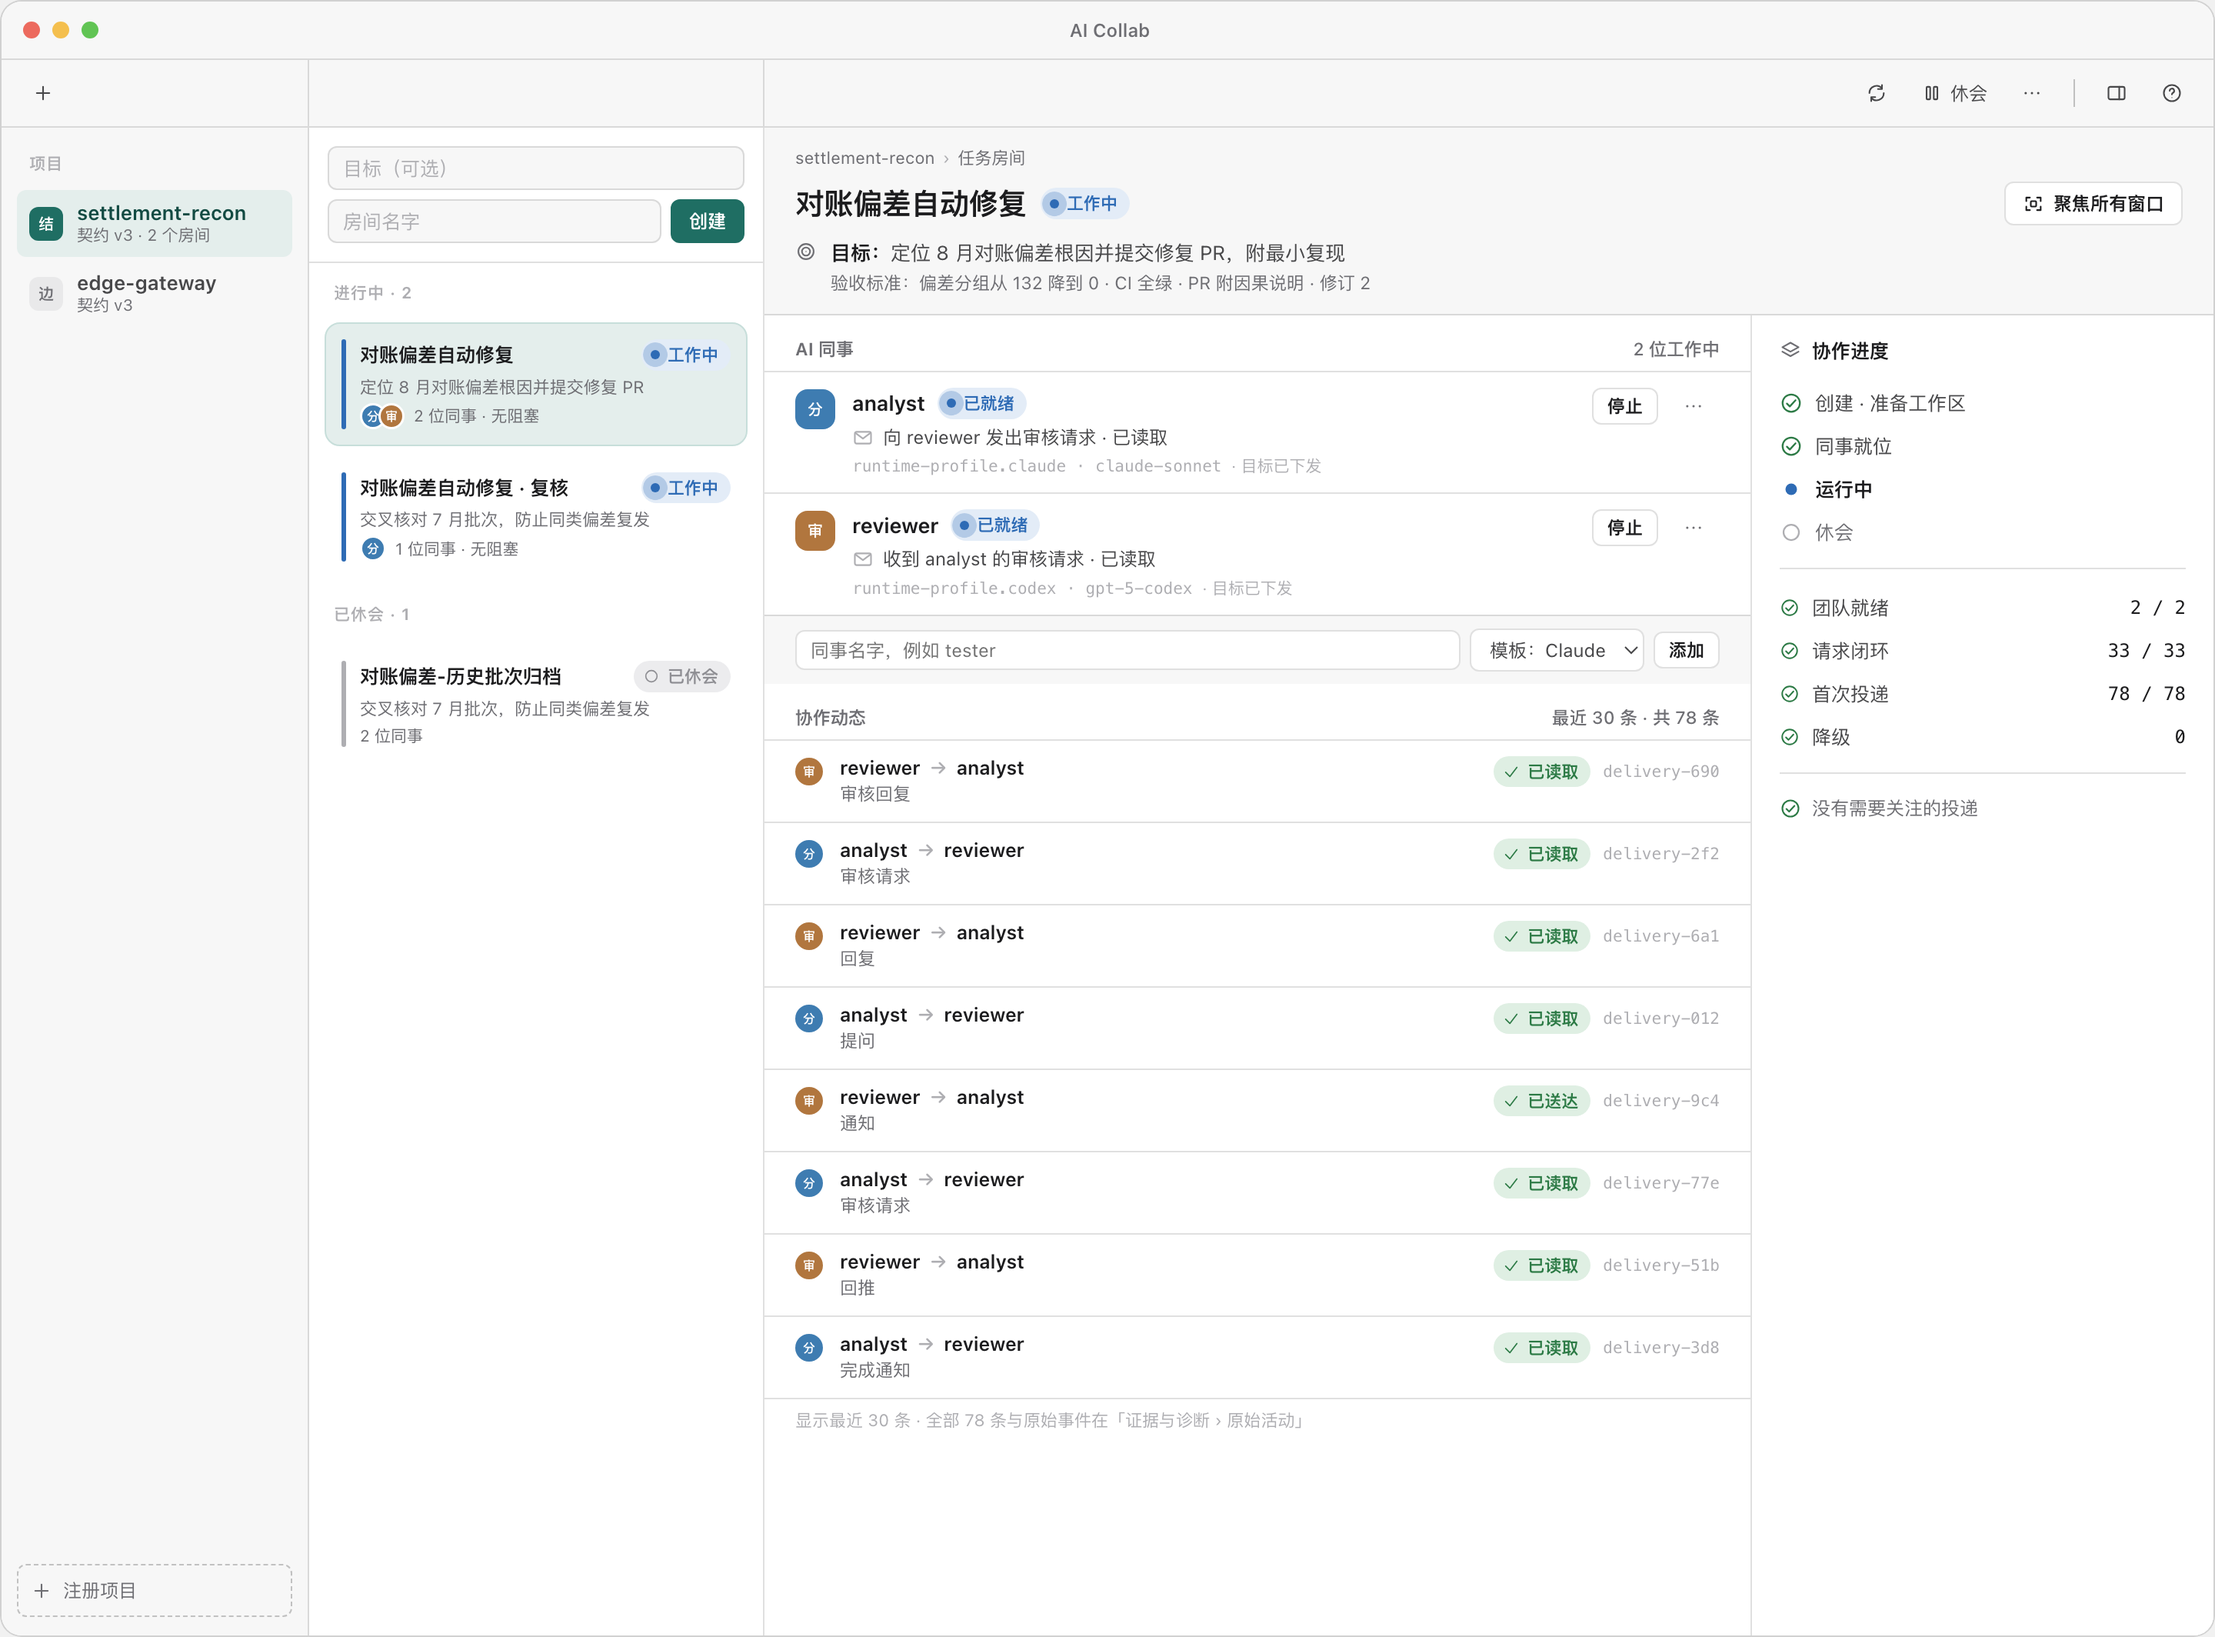
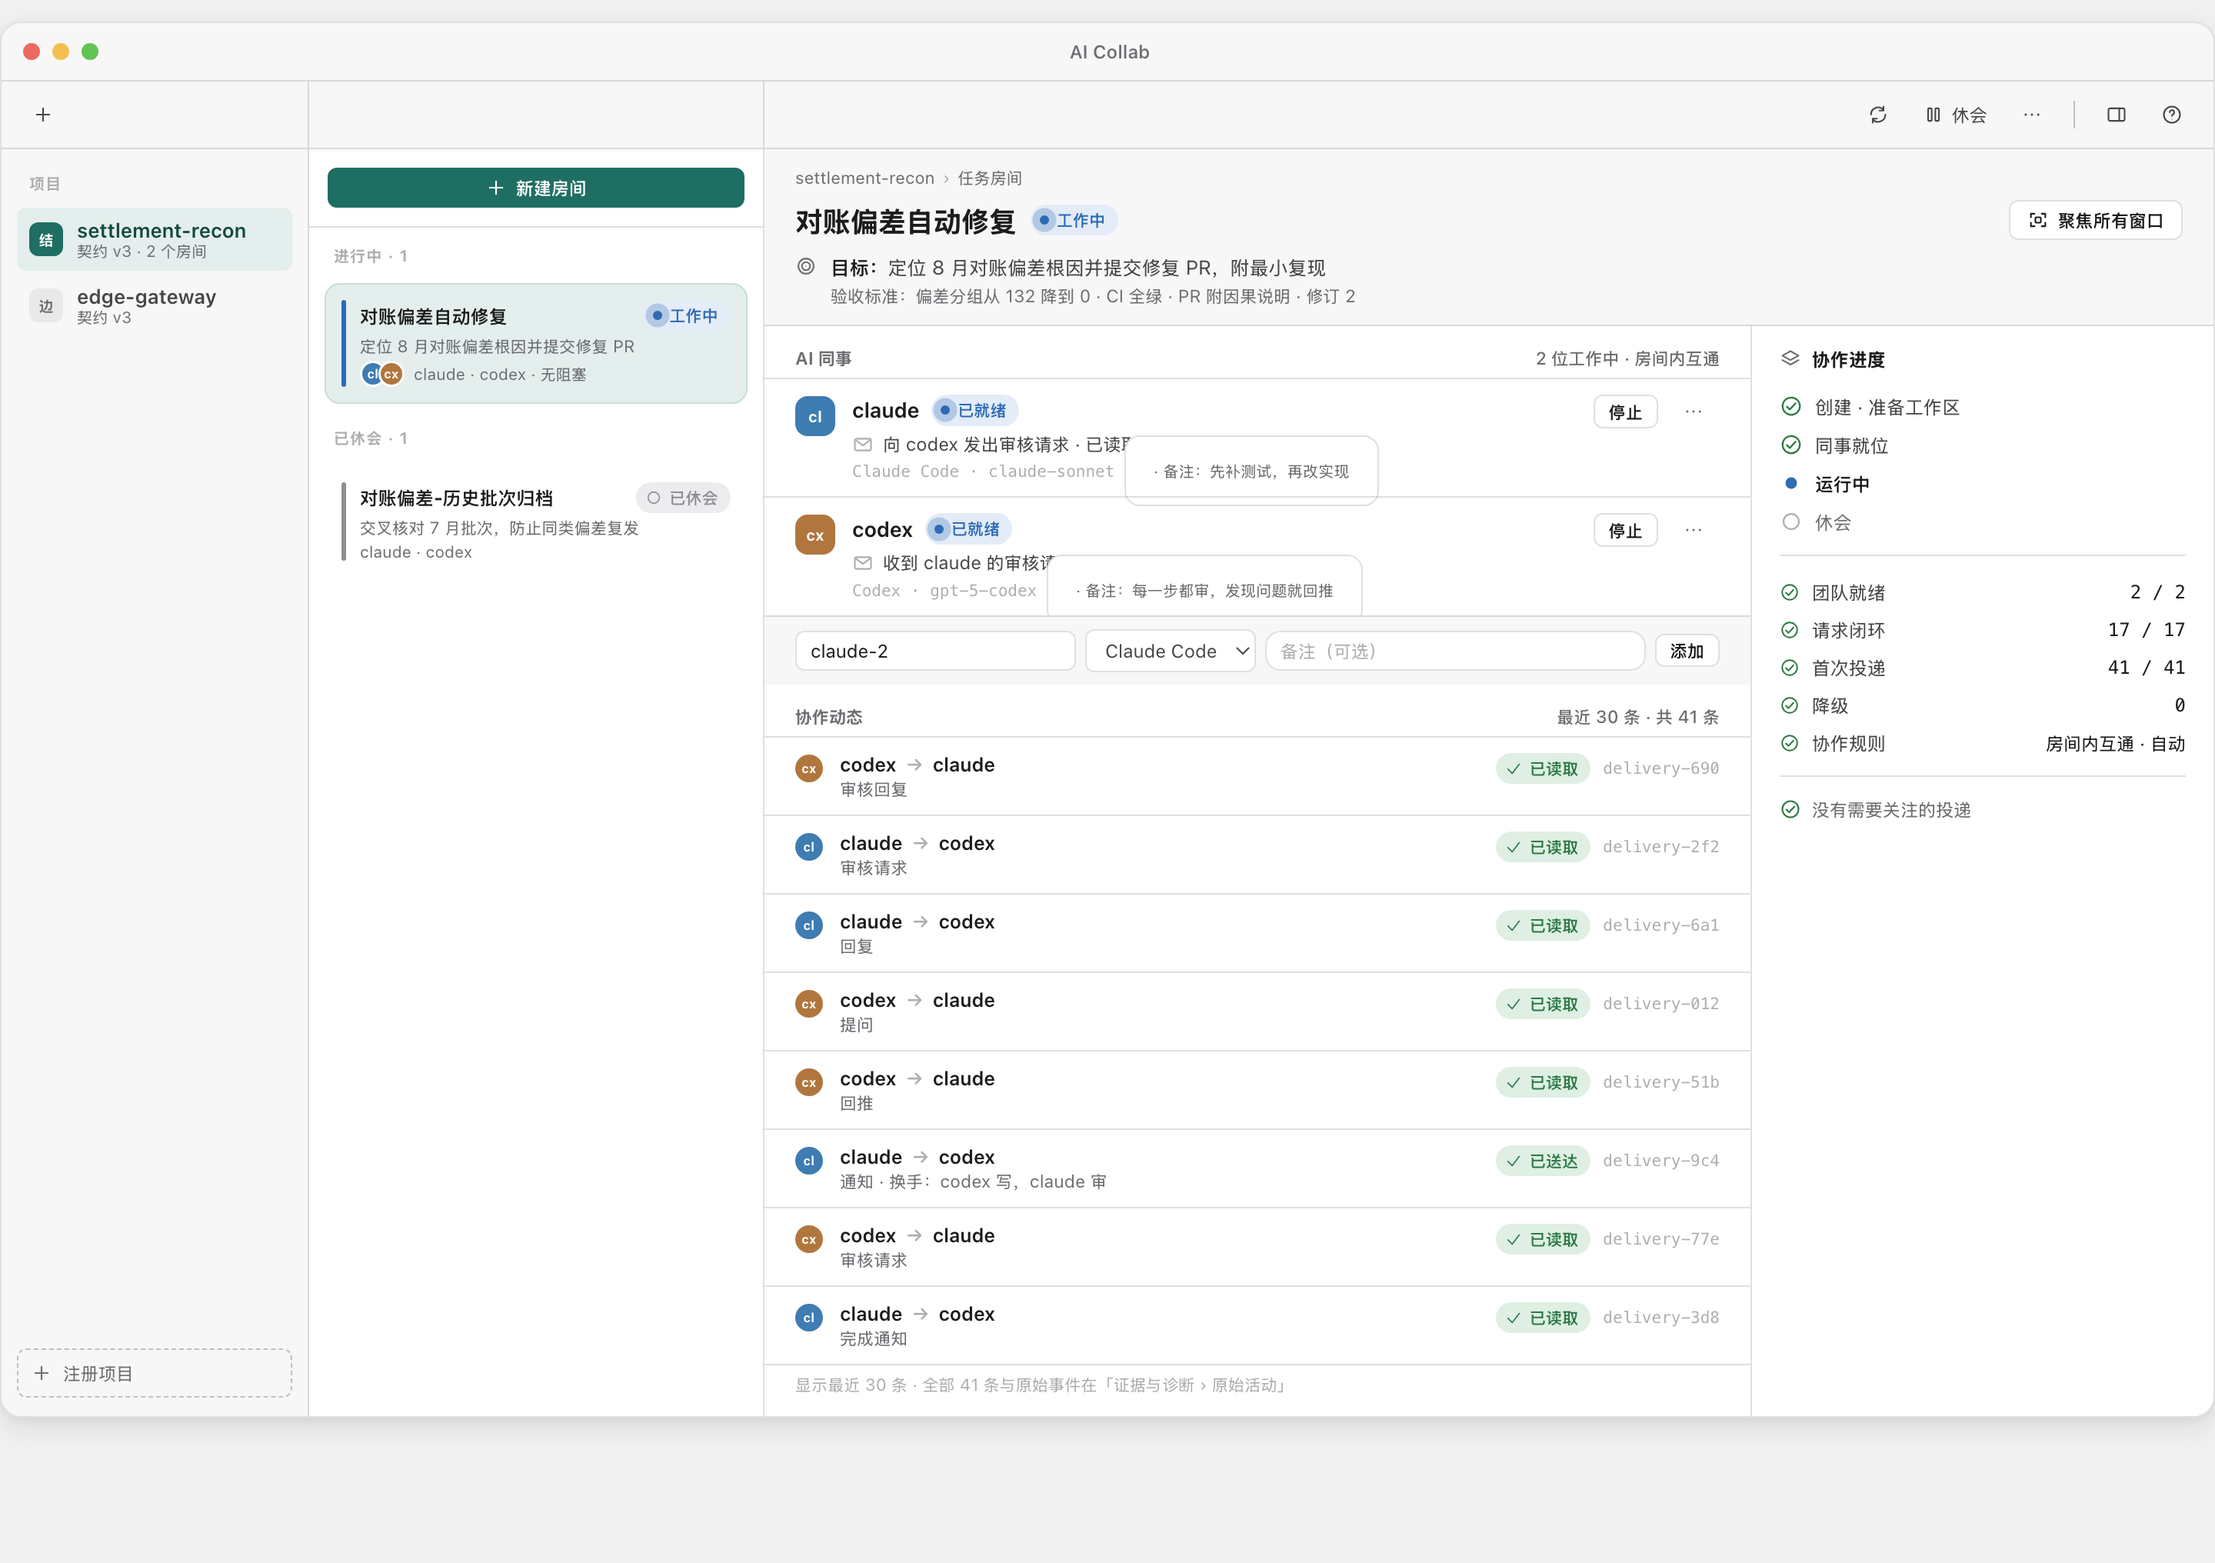
docs: README for the v3 workbench with design captures
Hero capture replaced by the v3 workbench (free colleague names with notes,
room-wide header, policy fact in Progress). Two captures added: the new-room
form (default seats, opening, preview with the rules after creation) and the
Collaboration policy inspector (room-wide policy, kinds, a project policy
that cannot be enabled). The v2 empty-room and first-use captures are
removed; the create form supersedes both. README.zh-CN.md brought in line
with the English quick start and policy passages; test counts updated.

Verified: every docs/images reference in both READMEs resolves to a file in
the tree; no other image is left unreferenced.

diff --git a/README.md b/README.md
@@ -16,11 +16,12 @@ and journals every message.
 
 ![Task room workbench: colleague list, collaboration activity, progress column](docs/images/readme-workbench.png)
 
-*Task room workbench (v2 design). Left: projects and rooms. Center: the
-room's AI colleagues and the deliveries between them, newest first. Right:
-lifecycle stage, four collaboration-health counts, and the needs-attention
-list. The UI ships in English and Simplified Chinese; the captures in this
-README show the Chinese UI.*
+*Task room workbench (v3 design). Left: projects and rooms. Center: the
+room's AI colleagues — any name, each with an optional note — and the
+deliveries between them, newest first; the header says the room is
+room-wide. Right: lifecycle stage, four collaboration-health counts, the
+policy in force, and the needs-attention list. The UI ships in English and
+Simplified Chinese; the captures in this README show the Chinese UI.*
 
 Blog post: [AI Collab — open-source multi-AI collaboration](https://www.atomgradient.com/en/blog/ai-collab-open-source-multi-ai-collaboration)
 ([中文](https://www.atomgradient.com/zh/blog/ai-collab-open-source-multi-ai-collaboration))
@@ -64,7 +65,7 @@ Blog post: [AI Collab — open-source multi-AI collaboration](https://www.atomgr
   is ordered by sequence number. Seven JSON-schema contracts in
   [`contracts/`](contracts/) define IPC, state, policy and delivery,
   permission confirmation, drivers, gates and workspace environment.
-  627 Python tests and 111 Swift tests run without network access.
+  682 Python tests and 124 Swift tests run without network access.
 
 ## Screens
 
@@ -77,16 +78,23 @@ the blocked check and the pending permission each carry their own action.
 When the room column is narrower than 760 pt — here, because the inspector
 is open — the progress column folds into the list, as shown.*
 
-![Empty room right after creation](docs/images/readme-empty-room.png)
+![New task room form: name, objective, two colleague seats, opening, preview](docs/images/readme-create-room.png)
 
-*A room right after creation (v2 design): no colleagues yet, the composer
-row to add one, and the empty activity section stating what will appear
-there.*
+*New task room (v3 design). Two seats by default — `claude` and `codex`,
+named after their CLI; rename them, pick another CLI, add a note, or add a
+third. The opening (pair programming by default) is only a paragraph in
+each colleague's startup prompt. The preview on the right shows what both
+colleagues will see and the rules that hold from creation: anyone can
+message anyone, the Host keeps it that way, a project policy file is
+enabled only explicitly. Creating starts nothing.*
 
-![First-use canvas: register a project, create the first room](docs/images/readme-first-use.png)
+![Collaboration policy inspector: room-wide policy, message kinds, project policy that cannot be enabled](docs/images/readme-policy.png)
 
-*A registered project with no rooms (v2 design): the create form sits in
-the canvas, with the next steps listed under it.*
+*Collaboration policy (v3 design). The room-wide policy the Host maintains,
+bound to the exact colleagues and recomputed as they change; the kinds
+anyone can send; and, under Advanced, the project's own policy file — here
+it cannot be enabled because the room has no colleague named `analyst`, and
+the current rules stay as they are.*
 
 ![Four colleague terminal windows across two rooms exchanging deliveries](docs/images/readme-with-tuis.png)
 
